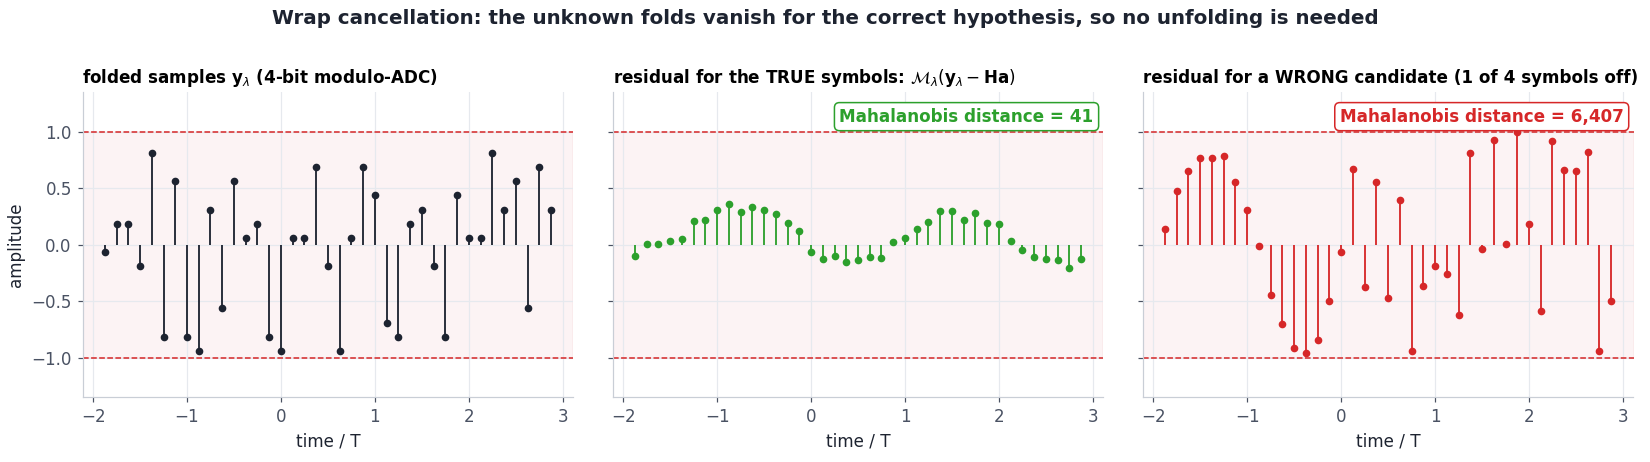
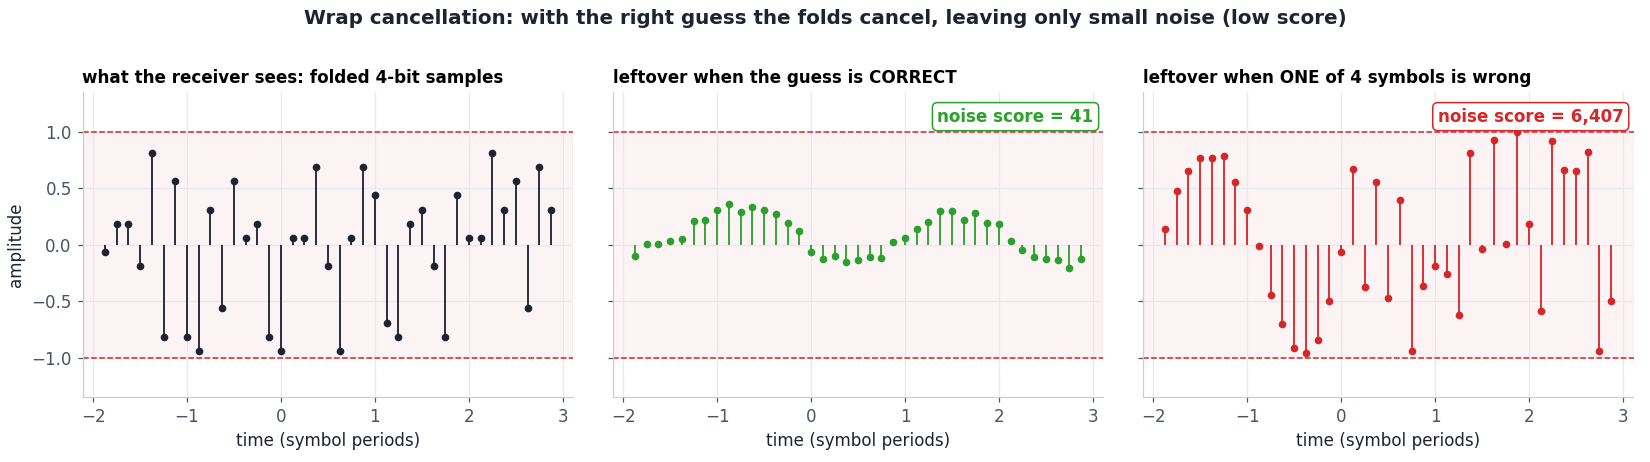
Figures: plain-language labels instead of code-style variables

diff --git a/docs/make_figures.py b/docs/make_figures.py
@@ -106,11 +106,11 @@ def make_folding_gif():
 
     fig = plt.figure(figsize=(11, 5.2), dpi=80)
     gs = fig.add_gridspec(2, 3, width_ratios=[1, 0.08, 2.4], hspace=0.45, wspace=0.05,
-                          left=0.06, right=0.98, top=0.88, bottom=0.11)
+                          left=0.085, right=0.98, top=0.88, bottom=0.11)
     axT = fig.add_subplot(gs[:, 0])
     ax1 = fig.add_subplot(gs[0, 2])
     ax2 = fig.add_subplot(gs[1, 2], sharex=ax1)
-    fig.suptitle(r"A modulo-ADC folds a high-amplitude signal into $[-\lambda,\lambda)$ before sampling",
+    fig.suptitle("A modulo-ADC wraps a large signal back into ±λ before sampling",
                  fontsize=14, weight="bold", color=INK)
 
     # transfer curve
@@ -124,9 +124,9 @@ def make_folding_gif():
     axT.set_ylim(-11, 11)
     axT.set_aspect("equal")
     axT.axhspan(-lam, lam, color=RED, alpha=0.07)
-    axT.set_xlabel("input  x")
-    axT.set_ylabel(r"output  $\mathcal{M}_\lambda(x)$")
-    axT.set_title("transfer function")
+    axT.set_xlabel("input")
+    axT.set_ylabel("output after folding")
+    axT.set_title("folding rule")
     style(axT)
     dotT, = axT.plot([], [], "o", color=INK, ms=8, zorder=5)
     guideT, = axT.plot([], [], color=INK, lw=0.8, ls=":")
@@ -139,10 +139,9 @@ def make_folding_gif():
     ax1.set_ylim(-11.5, 11.5)
     ax2.set_ylim(-2.6 * lam / 2, 2.6 * lam / 2)
     ax1.set_xlim(t[0], t[-1])
-    ax1.set_title(r"received signal $r(t)$  (needs a high-dynamic-range ADC)", loc="left")
-    ax2.set_title(r"folded signal $\mathcal{M}_\lambda(r(t))$ + samples at OF$\times$Nyquist (few bits suffice)",
-                  loc="left")
-    ax2.set_xlabel("time  (units of Nyquist period T = 0.5)")
+    ax1.set_title("received signal  (an ordinary ADC would need a huge range)", loc="left")
+    ax2.set_title("after folding into ±λ, with the ADC samples  (a few bits are enough)", loc="left")
+    ax2.set_xlabel("time")
     ax1.plot(t, x, color=BLUE, lw=1, alpha=0.18)
     l1, = ax1.plot([], [], color=BLUE, lw=2)
     l2 = [ax2.plot([], [], color=RED, lw=2)[0] for _ in range(40)]
@@ -209,10 +208,9 @@ def make_wrap_cancellation():
     fig, axs = plt.subplots(1, 3, figsize=(15, 4.2), dpi=110, sharey=True)
     fig.subplots_adjust(left=0.05, right=0.99, top=0.80, bottom=0.14, wspace=0.08)
     panels = [
-        (yl, INK, r"folded samples $\mathbf{y}_\lambda$ (4-bit modulo-ADC)", None),
-        (r_true, GREEN, r"residual for the TRUE symbols: $\mathcal{M}_\lambda(\mathbf{y}_\lambda-\mathbf{H}\mathbf{a})$",
-         d_true),
-        (r_wrong, RED, "residual for a WRONG candidate (1 of 4 symbols off)", d_wrong),
+        (yl, INK, "what the receiver sees: folded 4-bit samples", None),
+        (r_true, GREEN, "leftover when the guess is CORRECT", d_true),
+        (r_wrong, RED, "leftover when ONE of 4 symbols is wrong", d_wrong),
     ]
     for ax, (v, col, ttl, d) in zip(axs, panels):
         style(ax)
@@ -223,14 +221,14 @@ def make_wrap_cancellation():
         plt.setp(ml, color=col, ms=4)
         plt.setp(sl, color=col, lw=1.2)
         ax.set_title(ttl, fontsize=11, loc="left")
-        ax.set_xlabel("time / T")
+        ax.set_xlabel("time (symbol periods)")
         ax.set_ylim(-1.35, 1.35)
         if d is not None:
-            ax.text(0.98, 0.95, f"Mahalanobis distance = {d:,.0f}", transform=ax.transAxes, ha="right",
+            ax.text(0.98, 0.95, f"noise score = {d:,.0f}", transform=ax.transAxes, ha="right",
                     va="top", fontsize=11, weight="bold", color=col,
                     bbox=dict(boxstyle="round,pad=0.3", fc="white", ec=col, lw=1))
     axs[0].set_ylabel("amplitude")
-    fig.suptitle("Wrap cancellation: the unknown folds vanish for the correct hypothesis, so no unfolding is needed",
+    fig.suptitle("Wrap cancellation: with the right guess the folds cancel, leaving only small noise (low score)",
                  fontsize=13, weight="bold", color=INK)
     fig.savefig(OUT / "wrap_cancellation.png", facecolor="white")
     plt.close(fig)
@@ -257,9 +255,9 @@ def make_block_search_gif():
         ax.set_ylim(-3.2, 2.6)
         ax.axis("off")
         wrong = wrong_by_pass[pass_k + (1 if merged else 0)]
-        title = (f"Algorithm 1 · pass {pass_k + 1}: block {blk + 1}/{len(starts)}  "
+        title = (f"Block search · pass {pass_k + 1} · block {blk + 1} of {len(starts)}  "
                  "(blocks are independent, so they run in parallel)") if not merged else \
-            (f"Algorithm 1 · pass {pass_k + 1}: merge committed cores"
+            (f"Block search · pass {pass_k + 1}: combine the middle symbols of all blocks"
              + ("  ✓ converged" if not wrong_by_pass[pass_k + 1] else ""))
         ax.set_title(title, fontsize=13, weight="bold", color=INK, loc="left")
 
@@ -268,7 +266,7 @@ def make_block_search_gif():
             ax.add_patch(FancyBboxPatch((i + 0.08, 0), 0.84, 0.9, boxstyle="round,pad=0.02,rounding_size=0.12",
                                         fc=col, ec="white", alpha=0.85))
             ax.text(i + 0.5, 0.45, rf"$a_{{{i + 1}}}$", ha="center", va="center", color="white", fontsize=11)
-        ax.text(-0.5, 1.25, "current estimate  â", fontsize=10, color=INK)
+        ax.text(-0.5, 1.25, "current guess of each symbol", fontsize=10, color=INK)
 
         for j, (fc, al, lab) in enumerate(((GREEN, 0.85, "correct"), (RED, 0.85, "wrong"),
                                            (GREY, 0.30, "block edge (discarded)"))):
@@ -278,7 +276,7 @@ def make_block_search_gif():
 
         ts = np.linspace(0, Ns, Ns * 6 + 1)
         ax.plot(ts, np.full_like(ts, -2.2), "|", color=GREY, ms=7)
-        ax.text(-0.5, -2.85, r"folded samples $\mathbf{y}_\lambda$  (OF = 6)", fontsize=10, color=INK)
+        ax.text(-0.5, -2.85, "folded samples (6 per symbol)", fontsize=10, color=INK)
 
         if not merged:
             s = starts[blk]
@@ -286,16 +284,16 @@ def make_block_search_gif():
             for g in list(range(s, s + G)) + list(range(s + Nb - G, s + Nb)):
                 if not ((s == 0 and g < G) or (s == Ns - Nb and g >= Ns - G)):
                     ax.add_patch(Rectangle((g + 0.08, 0), 0.84, 0.9, fc="white", alpha=0.55, ec="none"))
-            ax.text(s + Nb / 2, 1.45, f"search {8 ** Nb:,} local candidates", ha="center", color=BLUE,
+            ax.text(s + Nb / 2, 1.45, f"try all {8 ** Nb:,} options", ha="center", color=BLUE,
                     fontsize=10, weight="bold")
             eta = 0.75
             lo, hi = max(s - eta, 0), min(s + Nb + eta, Ns)
             ax.add_patch(Rectangle((lo, -2.55), hi - lo, 0.7, fc=BLUE, alpha=0.15, ec=BLUE, lw=1.5))
             ax.annotate("", xy=((lo + hi) / 2, -1.8), xytext=(s + Nb / 2, -0.3),
                         arrowprops=dict(arrowstyle="<-", color=BLUE, lw=1.5))
-            ax.text(hi + 0.15, -1.25, "window $\\mathcal{I}_j$ = block ± margin η\n"
-                                       "interference of symbols outside\nthe block removed using pass k−1",
-                    fontsize=9, color=INK, va="center")
+            ax.text(Ns + 0.5, -2.85, "samples used = the block plus a small margin;  "
+                                     "other symbols' effect removed using the current guess",
+                    fontsize=9, color=BLUE, ha="right")
 
     frames = []
     for k in range(len(wrong_by_pass) - 1):
